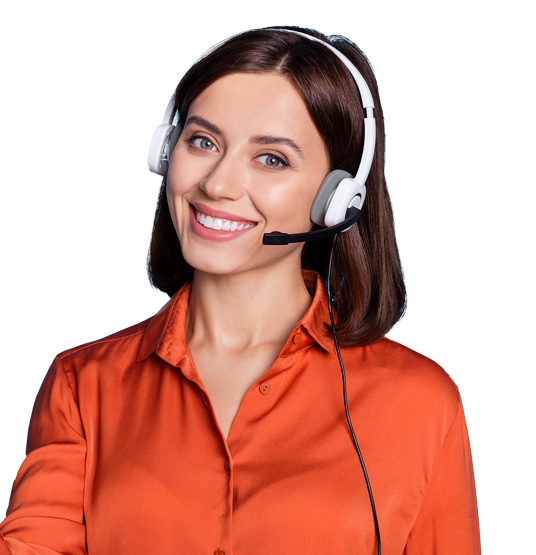
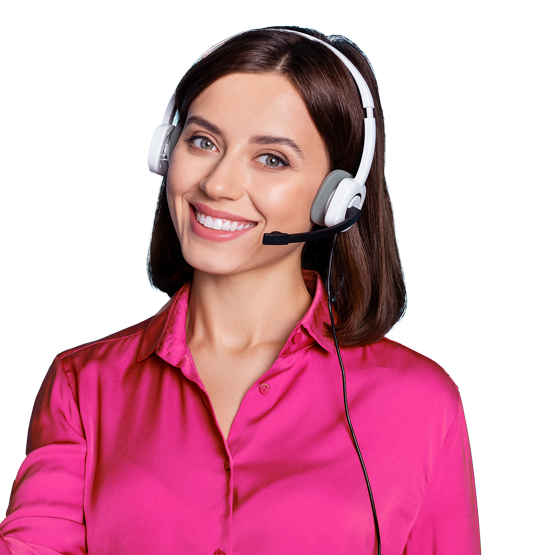
Adds Call Free section, updates agent-2.png ~ 1280

Changed region(s): [[0.0, 0.5207, 0.8955, 1.0]]

diff --git a/style.css b/style.css
@@ -991,6 +991,46 @@ img#signing-form {
   font-size: min(25px, 1.25vw);
 }
 
+/* Call Free */
+section#call-free {
+  width: 100%;
+  justify-content: start;
+  align-items: baseline;
+  border: white 0.75vw solid;
+  border-radius: 1.5vw;
+  position: relative;
+  padding: 2vw;
+  box-sizing: border-box;
+  margin-top: 8vw;
+  background: #e40e7f;
+}
+
+#call-free img {
+  position: absolute;
+  bottom: 0;
+  right: 4vw;
+  width: 25%;
+}
+
+#number h3 {
+  font-size: 3vw;
+  color: #1b1b1b;
+  letter-spacing: 2px;
+}
+
+#number a {
+  font-size: 7vw;
+  height: auto;
+  line-height: 1;
+  color: white;
+  letter-spacing: 4px;
+}
+
+div#number {
+  position: relative;
+  left: 3vw;
+}
+
 /* ============================================================
 Media Queries
 ============================================================= */

diff --git a/index.html b/index.html
@@ -806,6 +806,15 @@
           </li>
         </ul>
       </section>
+      <section id="call-free" class="bg-dark flex">
+        <div id="number">
+          <h3 class="txt-white uppercase txt-900">Call Free 7 Days a Week</h3>
+          <a href="tel:+448000113395" class="number txt-fuschia txt-900"
+            >0800 011 3395</a
+          >
+        </div>
+        <img src="assets/agent-2.png" alt="" />
+      </section>
     </article>
     <script src="script.js"></script>
   </body>
